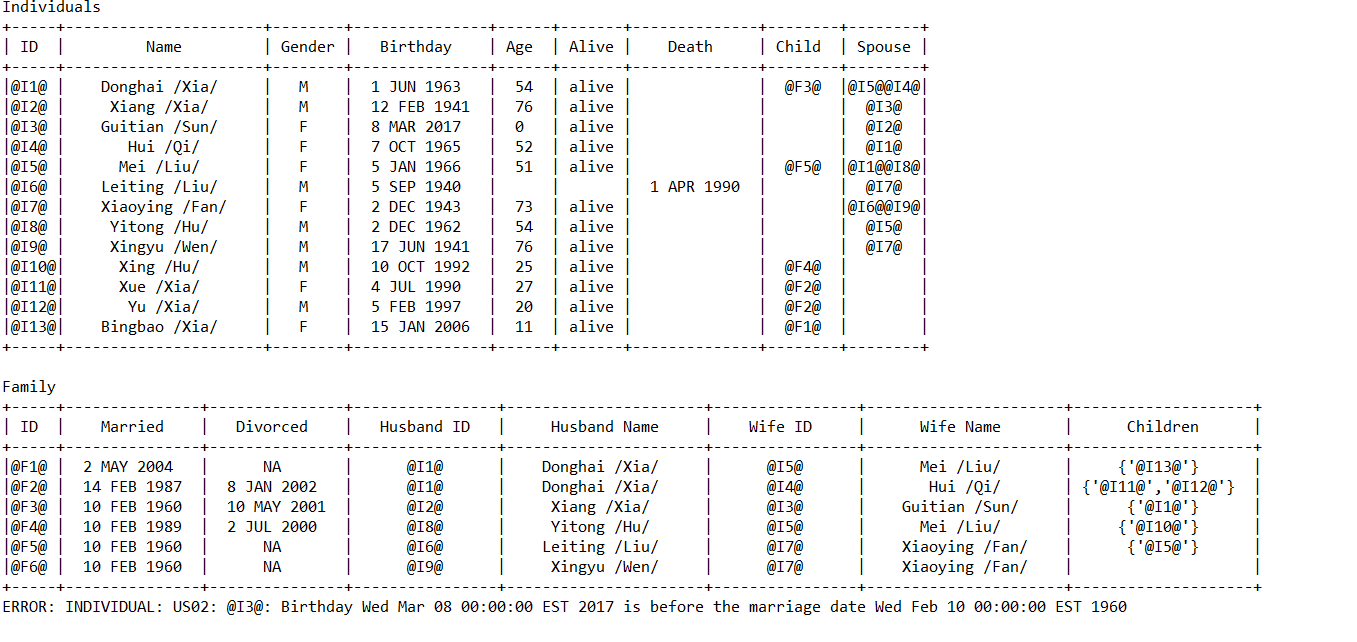
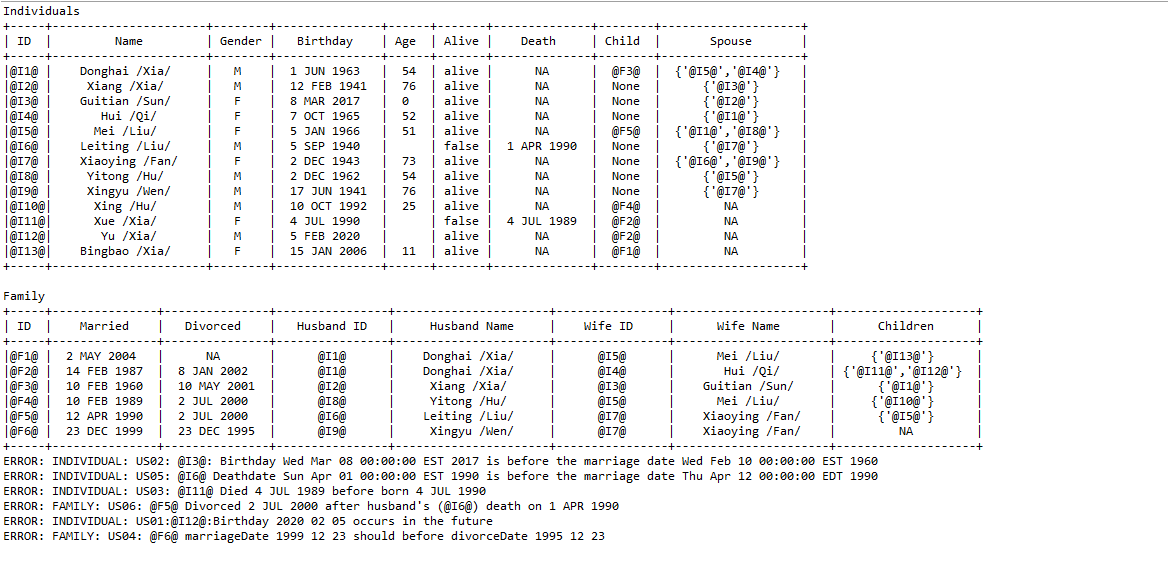
fix bugs and testfile for all user stories

Changed region(s): [[0.0, 0.0, 0.8938, 0.968]]

diff --git a/ValidCode2.java b/ValidCode2.java
@@ -2,29 +2,30 @@ import java.text.ParseException;
 import java.util.ArrayList;
 import java.util.Collections;
 import java.util.Comparator;
+import java.util.Date;
 import java.util.List;
 
 public class ValidCode2 {
-	public static void main(String[] arge){
+	public static void main(String[] arge) {
 
-		String address="c:\\Users\\shizekang\\desktop\\cs-555\\Project01.ged";
+		String address = "src/Project01.ged";
 
 		List<Individual> indi_list = new ArrayList<>();
 		List<Family> family_list = new ArrayList<>();
 		GEDCOMParser.parse(address, indi_list, family_list);
-    CheckValidate cv = new CheckValidate();
-		//sortIndi(indi_list);
+		CheckValidate cv = new CheckValidate();
+		// sortIndi(indi_list);
 		System.out.println("Individuals");
 		printIndiDiv();
-		printIndi("ID","Name","Gender","Birthday","Age","Alive","Death","Child","Spouse");
+		printIndi("ID", "Name", "Gender", "Birthday", "Age", "Alive", "Death", "Child", "Spouse");
 		printIndiDiv();
-		for(Individual indi:indi_list){
+		for (Individual indi : indi_list) {
 			String spouse1 = "";
 			ArrayList<Family> fa = UtilityZS.getFamiliesByIndiId(indi, family_list);
 			if (fa != null && fa.size() > 0) {
-        spouse1 += "{";
-				for (Family family: fa) {
-          if (spouse1.length() > 1) {
+				spouse1 += "{";
+				for (Family family : fa) {
+					if (spouse1.length() > 1) {
 						spouse1 += ",";
 					}
 					if (indi.sex.equals("M")) {
@@ -33,12 +34,14 @@ public class ValidCode2 {
 						spouse1 += "'" + family.husband_id + "'";
 					}
 				}
-        spouse1 += "}";
+				spouse1 += "}";
 			}
 			String age = "";
 			try {
 				if (indi.death == null) {
-					age = String.valueOf(UtilityZS.getAge(UtilityZS.processDate(indi.birthday))); 
+					if (UtilityZS.processDate(indi.birthday).before((new Date()))) {
+						age = String.valueOf(UtilityZS.getAge(UtilityZS.processDate(indi.birthday)));
+					}
 				}
 			} catch (ParseException e) {
 				e.printStackTrace();
@@ -52,125 +55,98 @@ public class ValidCode2 {
 				alive = "alive";
 				death = "NA";
 			}
-			printIndi(indi.id,indi.name,indi.sex,indi.birthday,String.valueOf(age),alive,death,indi.fChild!=null?indi.fChild:"None", spouse1==""?"NA":spouse1);
+			printIndi(indi.id, indi.name, indi.sex, indi.birthday, String.valueOf(age), alive, death,
+					indi.fChild != null ? indi.fChild : "None", spouse1 == "" ? "NA" : spouse1);
 		}
 		printIndiDiv();
 		System.out.println();
 		System.out.println("Family");
 		printFamDiv();
-		printFam("ID","Married","Divorced","Husband ID","Husband Name","Wife ID","Wife Name","Children");
+		printFam("ID", "Married", "Divorced", "Husband ID", "Husband Name", "Wife ID", "Wife Name", "Children");
 		printFamDiv();
-		for(Family fam:family_list){
-			
-			String marriage_date = fam.marriage_date==null?"NA":fam.marriage_date;
-			String divorced_date = fam.divorce_date==null?"NA":fam.divorce_date;
+		for (Family fam : family_list) {
+
+			String marriage_date = fam.marriage_date == null ? "NA" : fam.marriage_date;
+			String divorced_date = fam.divorce_date == null ? "NA" : fam.divorce_date;
 			StringBuffer children = new StringBuffer();
 			if (fam.child_ids != null) {
 				children.append("{");
-				for(String id:fam.child_ids){
-					if(children.length()>1){
+				for (String id : fam.child_ids) {
+					if (children.length() > 1) {
 						children.append(",");
 					}
 					children.append("'");
 					children.append(id);
 					children.append("'");
 				}
-				children.append("}");	
+				children.append("}");
 			}
 			String husband_name = "NA";
 			String wife_name = "NA";
-			for(Individual indi:indi_list){
-				if(indi.id.equals(fam.husband_id)){
+			for (Individual indi : indi_list) {
+				if (indi.id.equals(fam.husband_id)) {
 					husband_name = indi.name;
 				}
-				if(indi.id.equals(fam.wife_id)){
+				if (indi.id.equals(fam.wife_id)) {
 					wife_name = indi.name;
 				}
 			}
-			printFam(fam.id,marriage_date,divorced_date,fam.husband_id,husband_name,fam.wife_id,wife_name,(children.length()==0)?"NA":(children.toString()));
+			printFam(fam.id, marriage_date, divorced_date, fam.husband_id, husband_name, fam.wife_id, wife_name,
+					(children.length() == 0) ? "NA" : (children.toString()));
 		}
 		printFamDiv();
 		try {
 			UserStorySprint1.birthBeforeMarr(indi_list, family_list);
 			UserStorySprint1.marraigeBeforeDeath(indi_list, family_list);
-      cv.BirthBeforeDeath(indi_list);
-      cv.DivorceBeforeDeath(family_list, indi_list);
-      	Check.beforeCurrent(indi_list, family_list);
-		Check.dateBeforeMarriage(family_list);
+			cv.BirthBeforeDeath(indi_list);
+			cv.DivorceBeforeDeath(family_list, indi_list);
+			Check.beforeCurrent(indi_list, family_list);
+			Check.dateBeforeMarriage(family_list);
 		} catch (ParseException e) {
 			// TODO Auto-generated catch block
 			e.printStackTrace();
 		}
 
-	
+	}
 
+	/*
+	 * public static void sortIndi(List<Individual> indi_list){
+	 * Collections.sort(indi_list,new Comparator<Individual>() {
+	 * 
+	 * @Override public int compare(Individual o1, Individual o2) { int a =
+	 * o1.id.compareTo(o2.id); if(a>0) return 1; if(a<0) return -1; return 0; } });
+	 * 
+	 * }
+	 */
+	public static void printIndiDiv() {
+		System.out.println("+" + Utils.getFillString("", 5, "-") + "+" + Utils.getFillString("", 22, "-") + "+"
+				+ Utils.getFillString("", 8, "-") + "+" + Utils.getFillString("", 15, "-") + "+"
+				+ Utils.getFillString("", 6, "-") + "+" + Utils.getFillString("", 7, "-") + "+"
+				+ Utils.getFillString("", 14, "-") + "+" + Utils.getFillString("", 8, "-") + "+"
+				+ Utils.getFillString("", 20, "-") + "+");
+	}
 
+	public static void printIndi(String id, String name, String gender, String birthday, String age, String alive,
+			String death, String child, String spouse) {
+		System.out.println("|" + Utils.getFillString(id, 5) + "|" + Utils.getFillString(name, 22) + "|"
+				+ Utils.getFillString(gender, 8) + "|" + Utils.getFillString(birthday, 15) + "|"
+				+ Utils.getFillString(age, 6) + "|" + Utils.getFillString(alive, 7) + "|"
+				+ Utils.getFillString(death, 14) + "|" + Utils.getFillString(child, 8) + "|"
+				+ Utils.getFillString(spouse, 20) + "|");
 	}
-/*	public static void sortIndi(List<Individual> indi_list){
-		Collections.sort(indi_list,new Comparator<Individual>() {
 
-			@Override
-			public int compare(Individual o1, Individual o2) {
-				int a = o1.id.compareTo(o2.id);
-				if(a>0)
-					return 1;
-				if(a<0)
-					return -1;
-				return 0;
-			}
-		});
-		
-	}*/
-	public static void printIndiDiv(){
-		System.out.println(
-				"+"+Utils.getFillString("",5, "-")
-				+"+"+Utils.getFillString("",22, "-")
-				+"+"+Utils.getFillString("",8, "-")
-				+"+"+Utils.getFillString("",15, "-")
-				+"+"+Utils.getFillString("",6, "-")
-				+"+"+Utils.getFillString("",7, "-")
-				+"+"+Utils.getFillString("",14, "-")
-				+"+"+Utils.getFillString("",8, "-")
-				+"+"+Utils.getFillString("",20, "-")
-				+"+");
+	public static void printFamDiv() {
+		System.out.println("+" + Utils.getFillString("", 5, "-") + "+" + Utils.getFillString("", 15, "-") + "+"
+				+ Utils.getFillString("", 15, "-") + "+" + Utils.getFillString("", 16, "-") + "+"
+				+ Utils.getFillString("", 22, "-") + "+" + Utils.getFillString("", 16, "-") + "+"
+				+ Utils.getFillString("", 22, "-") + "+" + Utils.getFillString("", 20, "-") + "+");
 	}
-	
-	public static void printIndi(String id,String name,String gender,String birthday,String age,String alive,String death,String child, String spouse){
-		System.out.println(
-				"|"+Utils.getFillString(id,5)
-				+"|"+Utils.getFillString(name,22)
-				+"|"+Utils.getFillString(gender,8)
-				+"|"+Utils.getFillString(birthday,15)
-				+"|"+Utils.getFillString(age,6)
-				+"|"+Utils.getFillString(alive,7)
-				+"|"+Utils.getFillString(death,14)
-				+"|"+Utils.getFillString(child,8)
-				+"|"+Utils.getFillString(spouse,20)
-				+"|");
-	}
-	
-	public static void printFamDiv(){
-		System.out.println(
-				"+"+Utils.getFillString("",5, "-")
-				+"+"+Utils.getFillString("",15, "-")
-				+"+"+Utils.getFillString("",15, "-")
-				+"+"+Utils.getFillString("",16, "-")
-				+"+"+Utils.getFillString("",22, "-")
-				+"+"+Utils.getFillString("",16, "-")
-				+"+"+Utils.getFillString("",22, "-")
-				+"+"+Utils.getFillString("",20, "-")
-				+"+");
-	}
-	public static void printFam(String id,String married,String divorced,String husband_id,String husband_name,String wife_id,String wife_name,String children){
-		System.out.println(
-				"|"+Utils.getFillString(id,5, " ")
-				+"|"+Utils.getFillString(married,15, " ")
-				+"|"+Utils.getFillString(divorced,15, " ")
-				+"|"+Utils.getFillString(husband_id,16, " ")
-				+"|"+Utils.getFillString(husband_name,22, " ")
-				+"|"+Utils.getFillString(wife_id,16, " ")
-				+"|"+Utils.getFillString(wife_name,22, " ")
-				+"|"+Utils.getFillString(children,20, " ")
-				+"|");
+
+	public static void printFam(String id, String married, String divorced, String husband_id, String husband_name,
+			String wife_id, String wife_name, String children) {
+		System.out.println("|" + Utils.getFillString(id, 5, " ") + "|" + Utils.getFillString(married, 15, " ") + "|"
+				+ Utils.getFillString(divorced, 15, " ") + "|" + Utils.getFillString(husband_id, 16, " ") + "|"
+				+ Utils.getFillString(husband_name, 22, " ") + "|" + Utils.getFillString(wife_id, 16, " ") + "|"
+				+ Utils.getFillString(wife_name, 22, " ") + "|" + Utils.getFillString(children, 20, " ") + "|");
 	}
 }

diff --git a/UtilityZS.java b/UtilityZS.java
@@ -1,5 +1,3 @@
-package project03;
-
 import java.text.DateFormat;
 import java.text.ParseException;
 import java.text.SimpleDateFormat;
@@ -7,6 +5,7 @@ import java.util.ArrayList;
 import java.util.Calendar;
 import java.util.Date;
 import java.util.List;
+import java.util.Locale;
 
 public class UtilityZS {
 	public static ArrayList<Family> getFamiliesByIndiId(Individual individual, List<Family> families) {
@@ -34,7 +33,7 @@ public class UtilityZS {
 				result += format + "-";
 			}
 			result = result.substring(0, result.length() - 1);
-			DateFormat dateFormat = new SimpleDateFormat("dd-MMM-yyyy");
+			DateFormat dateFormat = new SimpleDateFormat("dd-MMM-yyyy",Locale.ENGLISH);
 			Date resultdate = dateFormat.parse(result);
 			return resultdate;
 		}

diff --git a/Check.java b/Check.java
@@ -1,4 +1,3 @@
-import java.text.ParseException;
 import java.text.SimpleDateFormat;
 import java.util.Date;
 import java.util.List;
@@ -74,8 +73,7 @@ public class Check {
 				SimpleDateFormat sdf=new SimpleDateFormat("yyyy MM d");
 				String marry=sdf.format(format.parse(fam.marriage_date))	;
 				String divorce=sdf.format(format.parse(fam.divorce_date))	;
-				System.out.println("ERROR: FAMILY: "+"US04:"+fam.id+":"+"divorceDate"+divorce+" occurs in the future");
-				System.out.println("ERROR: FAMILY: "+"US04:"+fam.id+":"+"marriageDate"+marry+" occurs in the future");
+				System.out.println("ERROR: FAMILY: US04: "+ fam.id +" marriageDate " + marry + " should before divorceDate " + divorce );
 			}
 		}
 		}

diff --git a/UserStorySprint1.java b/UserStorySprint1.java
@@ -35,7 +35,7 @@ public class UserStorySprint1 {
 					for (Family family: getFamilies) {
 						Date marriagedate = UtilityZS.processDate(family.marriage_date );
 						if (deathdate.before(marriagedate)) {
-							System.out.println("ERROR: INDIVIDUAL: US05: " + individual.id + ": Deathdate " + deathdate + " is before the marriage date " + marriagedate);
+							System.out.println("ERROR: INDIVIDUAL: US05: " + individual.id + " Deathdate " + deathdate + " is before the marriage date " + marriagedate);
 							result = false;
 						}	
 					}

diff --git a/CheckValidate.java b/CheckValidate.java
@@ -20,7 +20,7 @@ public class CheckValidate {
 					String death = individual.death;
 					String birth = individual.birthday;
 					if (format.parse(birth).after(format.parse(death))) {
-						System.out.println("ERROR: INDIVIDUAL: US03: " + individual.id + " Died " + individual.death + "before born " + individual.birthday);
+						System.out.println("ERROR: INDIVIDUAL: US03: " + individual.id + " Died " + individual.death + " before born " + individual.birthday);
 					}
 				}
 			}
